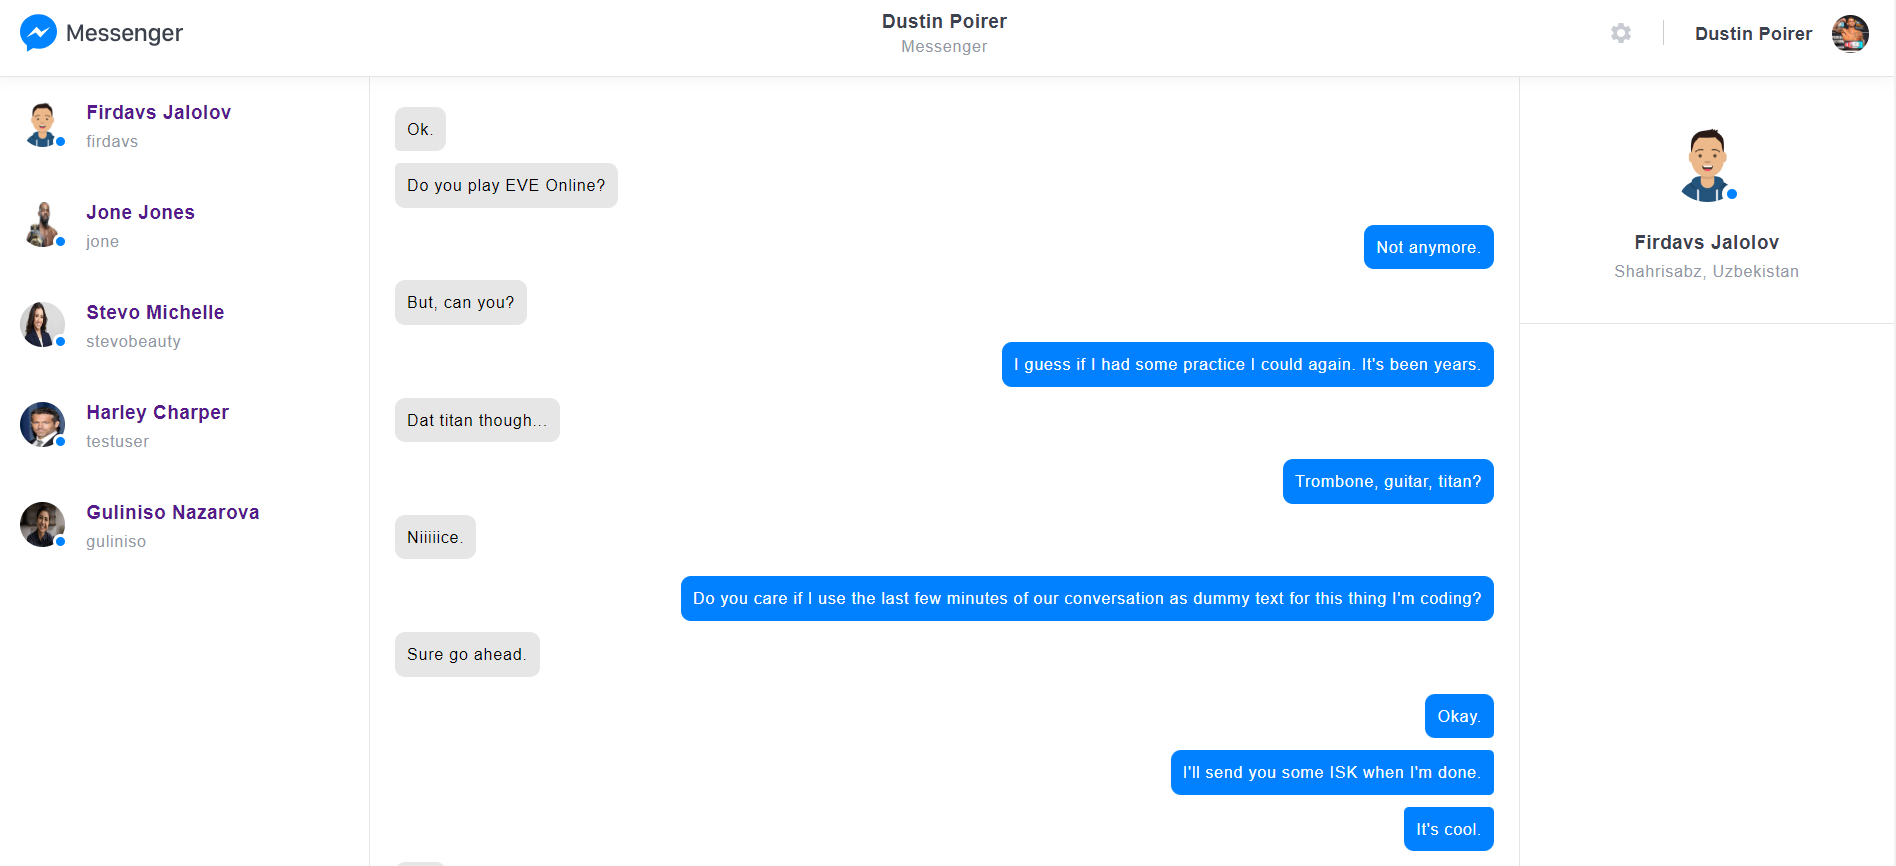
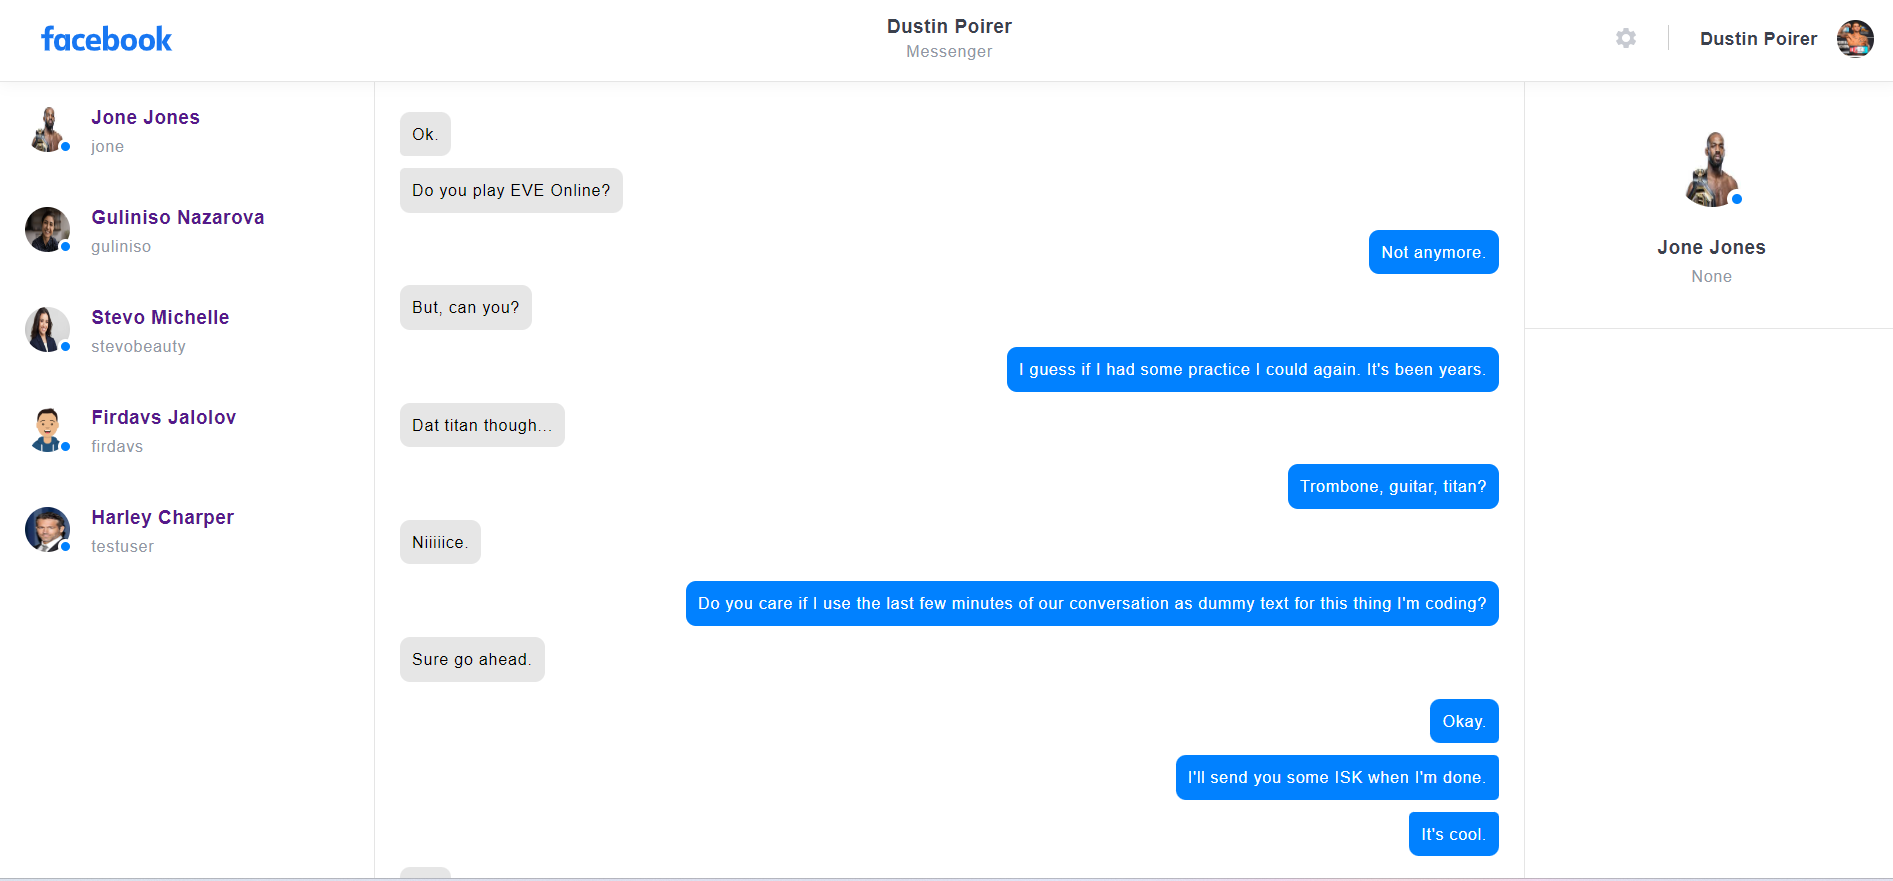
messenger is implemented

diff --git a/templates/landing-page.html b/templates/landing-page.html
@@ -35,10 +35,12 @@
                 <h4>People</h4>
             </div>
 
-            <div class="sidebarRow">
+            <a href="{% url 'message-to' friend.id  %}" style="text-decoration: none;color: inherit;">
+                <div class="sidebarRow">
                 <span class="material-icons"> chat </span>
                 <h4>Messenger</h4>
             </div>
+            </a>
 
             <div class="sidebarRow">
                 <span class="material-icons"> storefront </span>

diff --git a/messages_app/templates/messages_app/message.html b/messages_app/templates/messages_app/message.html
@@ -33,7 +33,9 @@
 
         <div class="container">
 
-            <div class="left"><img src="{% static 'messages_app/img/logo.svg' %}"></div>
+            <a href="{% url 'landing-page' %}">
+                 <div class="left"><img src="{% static 'images/fb_logo.svg' %}"></div>
+            </a>
 
             <div class="middle">
                 <h3>{{ current_user.full_name }}</h3>

diff --git a/facebook_clone/urls.py b/facebook_clone/urls.py
@@ -23,7 +23,11 @@ def landing_page(request):
         user__in=queryset,
         expiration_time__gte=datetime.datetime.now()).order_by('-created_time')
     return render(request, 'landing-page.html',
-                  {'posts': posts, 'posts_liked': posts_liked, 'stories': stories})
+                  {'posts': posts,
+                   'posts_liked': posts_liked,
+                   'stories': stories,
+                   'friend':user.friend_list.friends.all().order_by('-last_message_time').first()
+                   })
 
 
 urlpatterns = [
